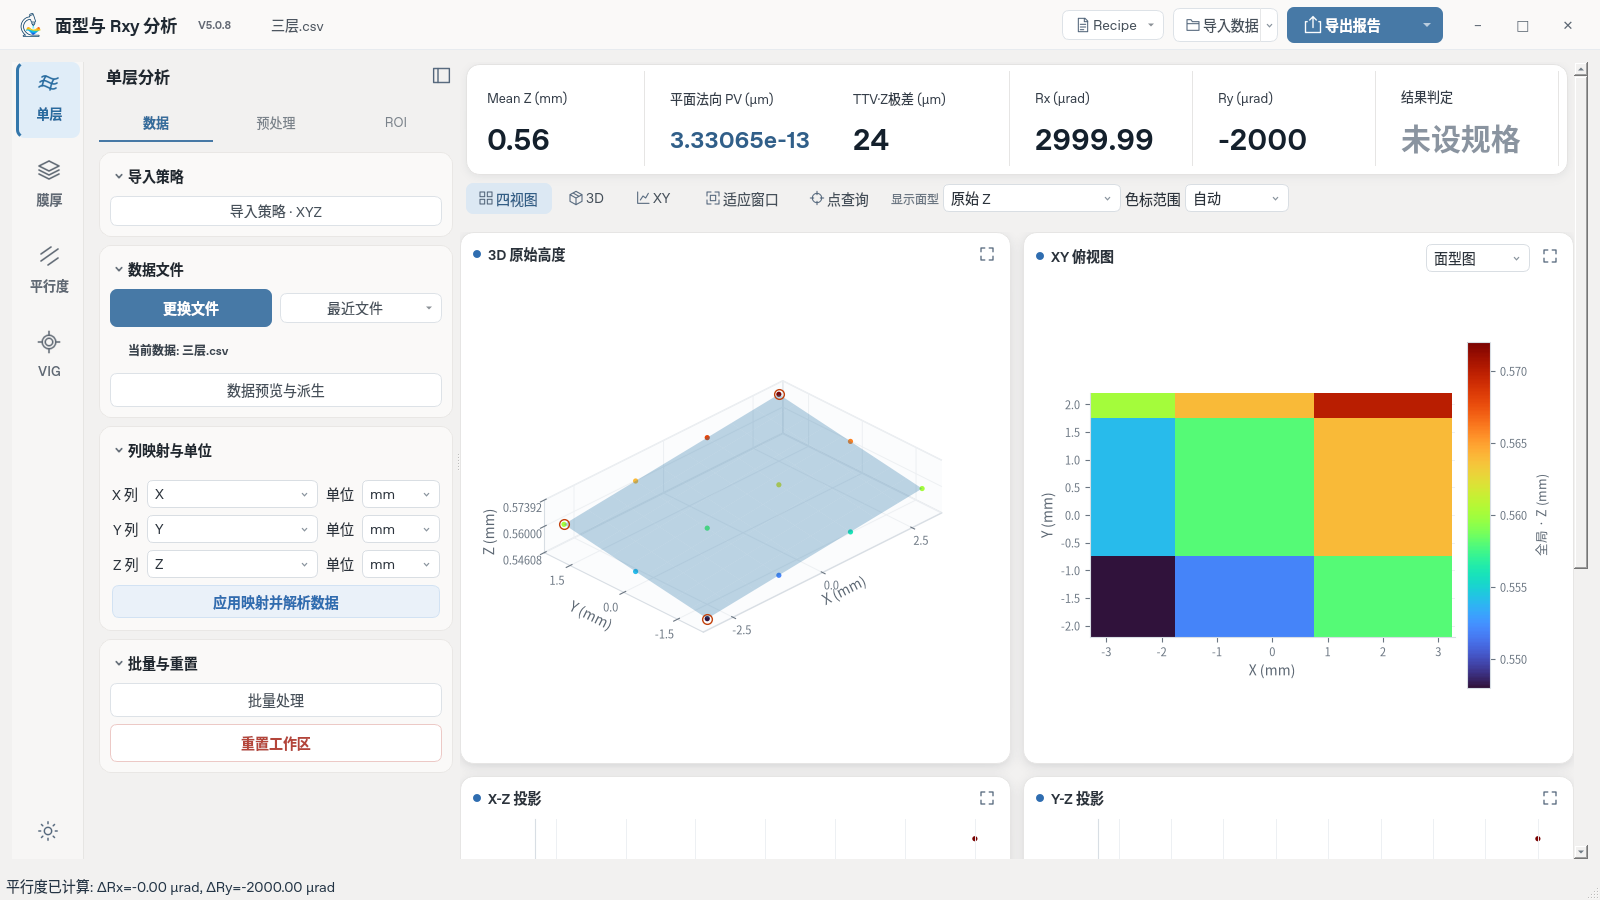
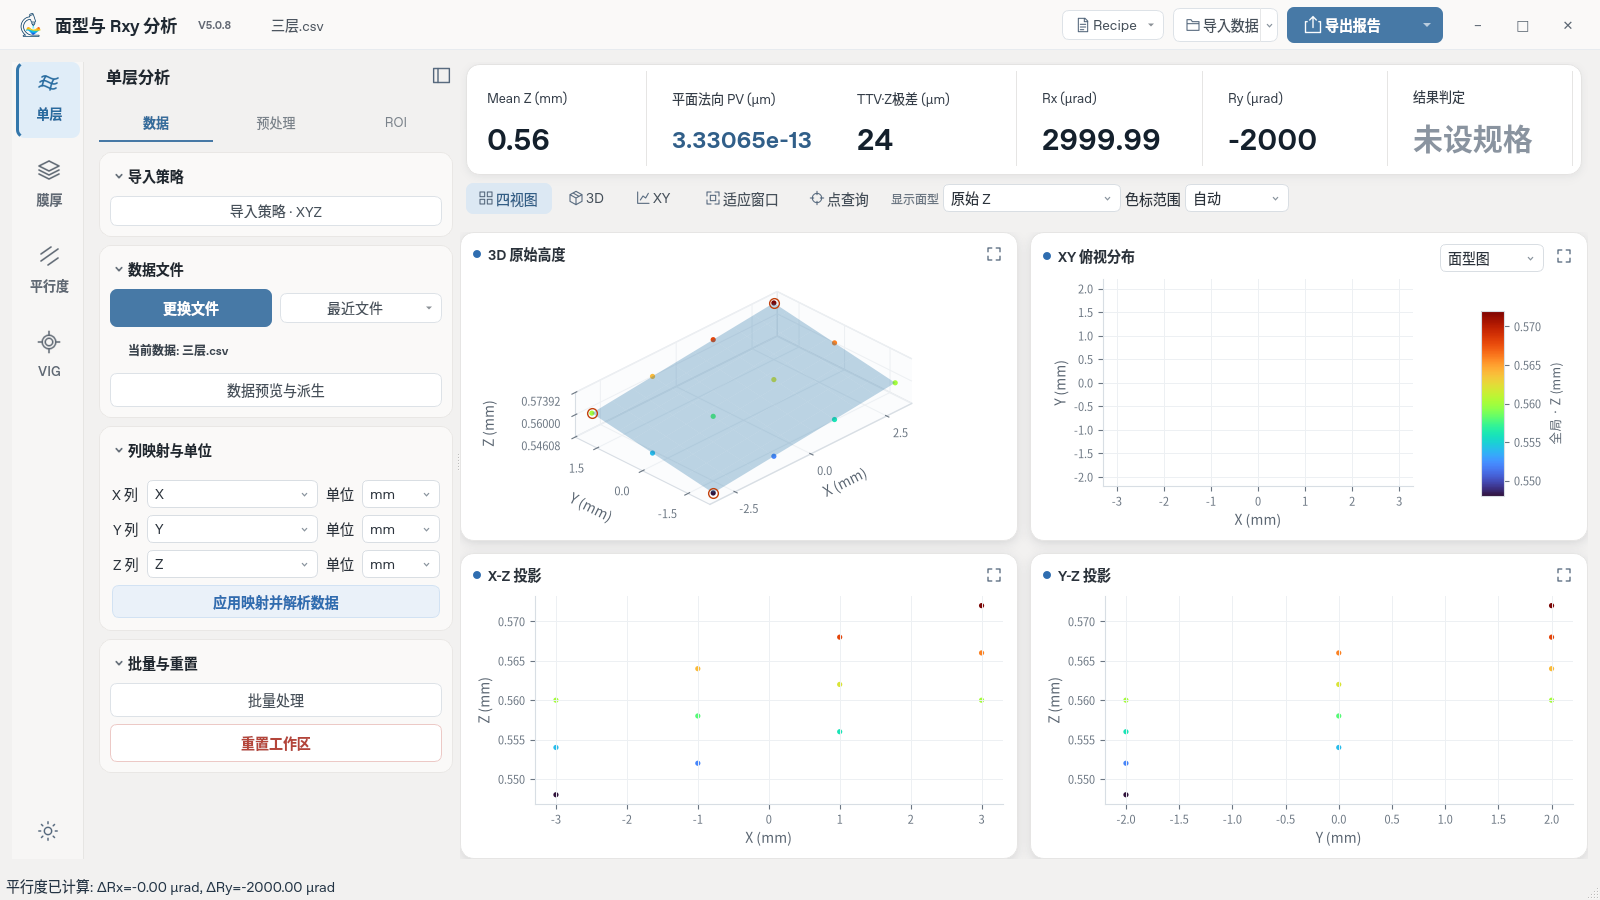
Refresh full-window screenshots and final layout validation [skip ci]

diff --git a/docs/V5.0.8_LAYOUT_REVIEW.md b/docs/V5.0.8_LAYOUT_REVIEW.md
@@ -2,7 +2,7 @@
 
 本轮只修改源码并验证，**未打包、未发布、未推送远程，也未合并主分支**。现有 V5.0.8 安装包尚未包含本轮修订。
 
-源码分支：`fix/v5.0.8-layout-review`；功能提交：`3bf6fbd40dfbe84a662fcee5c82c812094c9cf3a`。
+源码分支：`fix/v5.0.8-layout-review`；功能提交：`3bf6fbd40dfbe84a662fcee5c82c812094c9cf3a`；四视图尺寸补充修复：`a578f248eb47da2071ae4e34bab08dbb0a5b2cc8`。
 
 以下均为软件实际 Qt / Matplotlib 渲染，采用合成示例数据，非设计图。按要求先展示报告完整排版，再展示整体界面；可点击原图查看文字。
 
@@ -36,7 +36,7 @@
 
 ### 主控默认界面
 
-顶部默认显示 Mean Z、PV、TTV、Rx、Ry 和结果判定，**3σ 默认不勾选**。窄窗口按整张指标卡换行；不足一行时均分可用空间，判定区固定在右侧。数值和状态使用自适应字号。
+顶部默认显示 Mean Z、PV、TTV、Rx、Ry 和结果判定，**3σ 默认不勾选**。窄窗口按整张指标卡换行；不足一行时均分可用空间，判定区固定在右侧。数值和状态使用自适应字号。另修正窗口由窄变宽或放大视图后恢复时，画布首选高度造成不必要滚动的问题；1600×900 下四视图完整可见。
 
 ![主控整体界面](v508-layout-review/main-default.png)
 
@@ -78,7 +78,7 @@
 
 ## 5. 验证结果及边界
 
-- 原有九个定向文件共 92 个用例，结合分组重跑通过；新增布局／主题／Recipe 的 8 个用例和报告布局 1 个用例通过。共覆盖 101 个不同的定向用例，并非声称执行了完整测试套件或一次性全通过。
+- 原有九个定向文件共 92 个用例，结合分组重跑通过；新增布局／主题／Recipe 的 9 个用例和报告布局 1 个用例通过（最终重跑 10 个用例，67.86 秒）。共覆盖 102 个不同的定向用例，并非声称执行了完整测试套件或一次性全通过。
 - 组合流程初次回归出现 Qt 原生崩溃；调整布局回流和控件持有方式后，完整 29 个用例重跑通过。格式扩展初次未设置 offscreen 平台而中止，补充平台配置后 6 个用例通过。未削弱断言。
 - `--check-v508` 源码验收通过：实际界面、主控膜厚报告、平行度报告、VIG 报告和区域诊断，以及真实 VIG 组合计算子进程；原结果和编辑副本隔离检查通过。
 - 100% 与 150% 缩放检查了 1100、1366、1600 宽的四个模块；200% 检查了 1100、1600 宽的四个模块。检查图和文字后，扫描范围内没有剩余的普通标签截断项。
